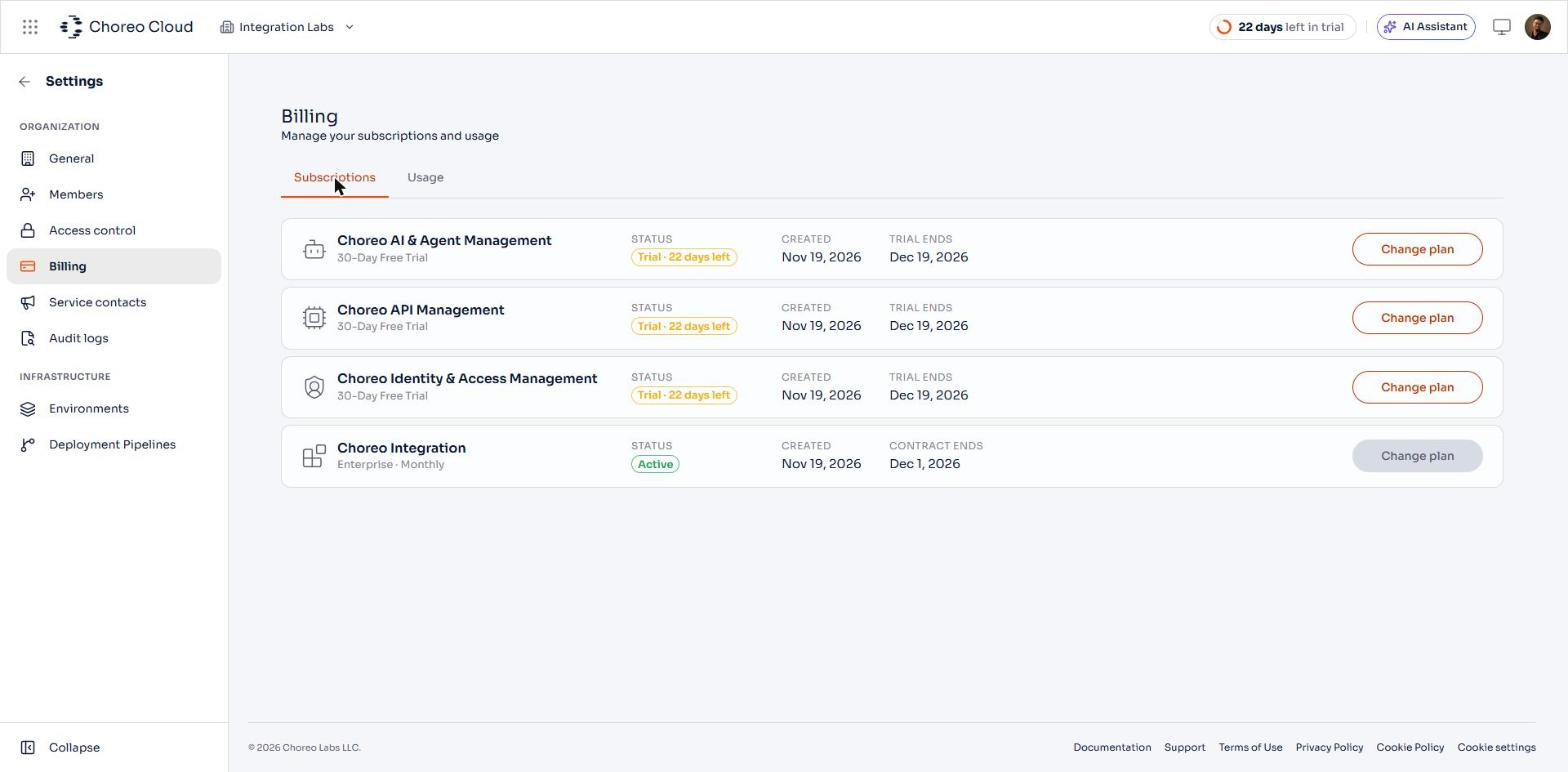
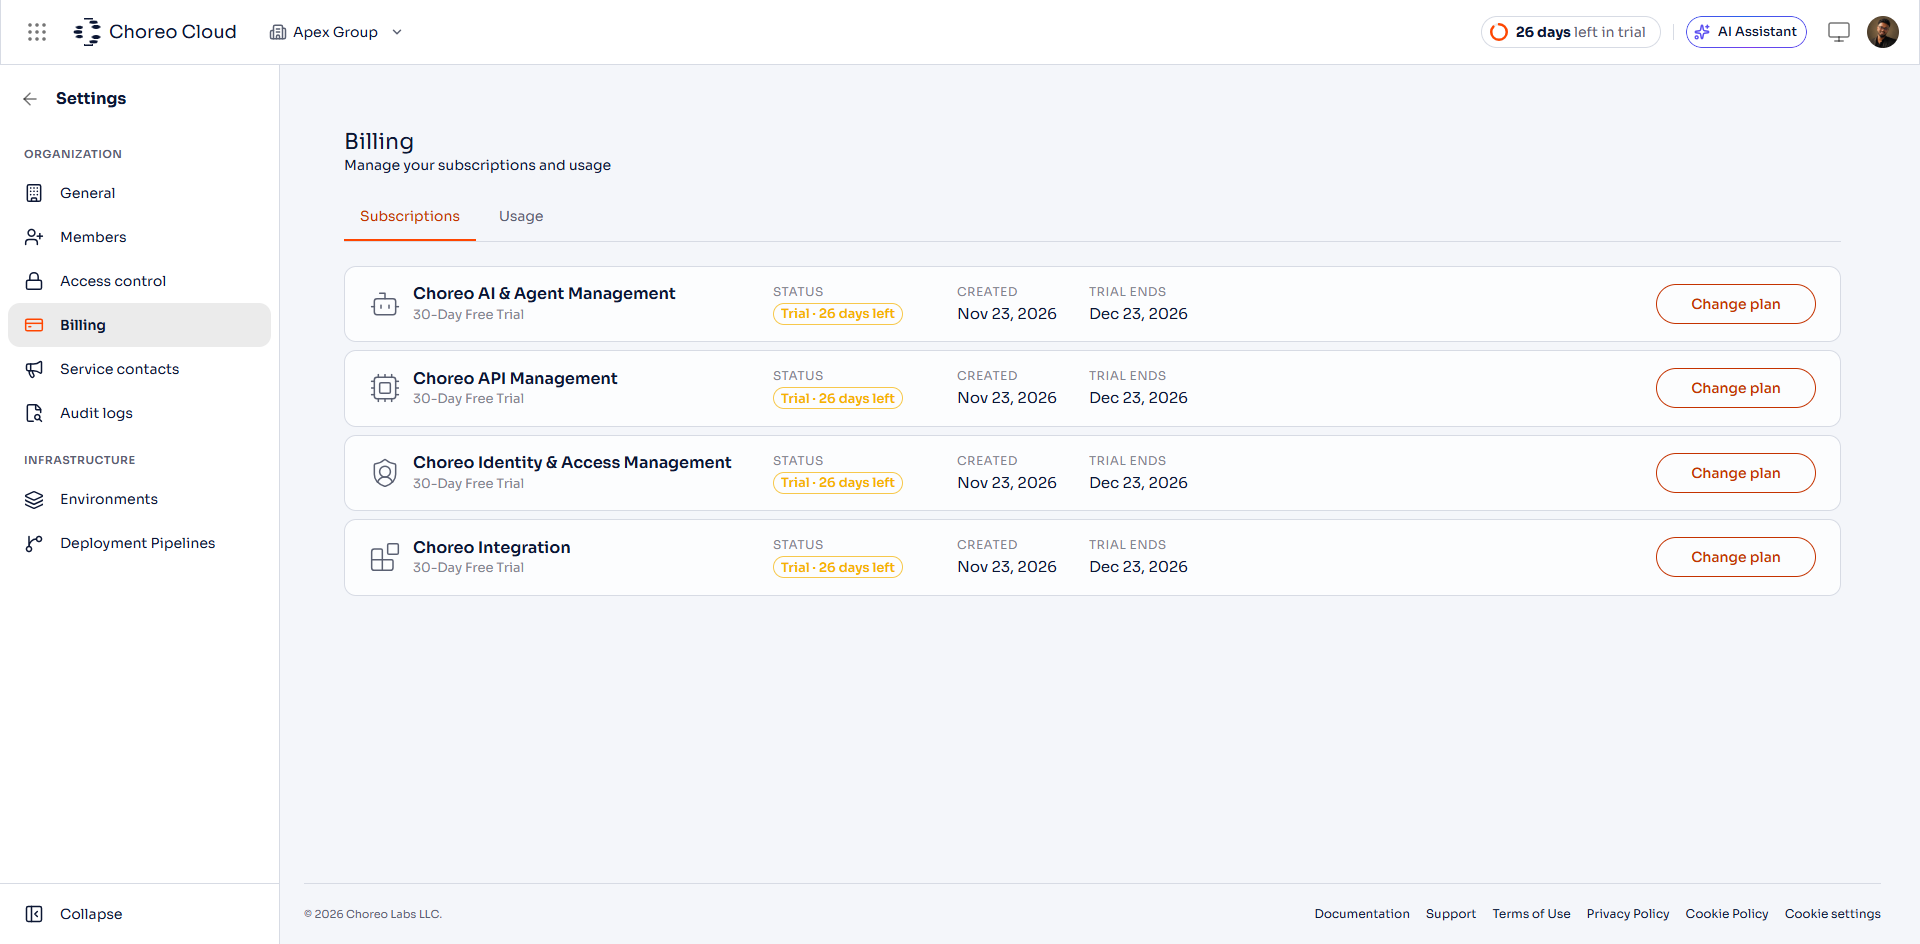
docs(v3): show the real self-service plan-upgrade request flow
Replace the Billing Subscriptions/Usage screenshots with ones from an
org still on a Free Trial for every product, where Choreo Integration's
Change plan button is still enabled (the earlier screenshots were from
an org already on a fixed Enterprise contract, where it's disabled).
This surfaces the real flow: Change plan > choose Enterprise > fill in
contact details > Send request to sales - a Choreo Cloud rep follows up
within 1 business day. Drop the "managed by Choreo Cloud" tooltip
screenshot and text as the primary story in favor of this, keeping a
one-line note that Change plan can still end up disabled once an org is
on a Choreo Cloud-managed plan. Also update the Usage tab screenshot to
one with real Free Trial quotas (Transactions, Automation Core Minutes,
AI Agent Actions, Integrations, AI Agents, Developers) instead of an
all-Unlimited Enterprise org, and flag reconciling those numbers with
the Acceptable Usage Policy as a follow-up.

diff --git a/en/docs/manage/billing/pricing-and-plans.md b/en/docs/manage/billing/pricing-and-plans.md
@@ -26,40 +26,66 @@ Choreo Cloud bills the resources you use as part of your existing subscription. 
 3. In the left navigation menu, click **Billing**, then click the **Usage** tab.
 
 <ThemedImage
-    alt="Billing Usage tab for Choreo Integration showing Transactions, Automation Core Minutes, AI Agent Actions, and shared resource counts"
+    alt="Billing Usage tab for Choreo Integration showing Transactions, Automation Core Minutes, AI Agent Actions, Integrations, AI Agents, Connectors, and shared resource counts with their quotas and percentage used"
     sources={{
         light: useBaseUrl('/img/manage/cloud/billing/billing-usage.png'),
         dark: useBaseUrl('/img/manage/cloud/billing/billing-usage.png'),
     }}
 />
 
-{/* TODO(v3): the Usage tab has a product selector (set to Choreo Integration here) - didn't check what the other Choreo Cloud products (AI & Agent Management, API Management, Identity & Access Management) show under it, since this docs site covers Choreo Integration only. */}
+Each metric shows how much of your plan's quota you've used, and when it resets. A metric with no stated quota, like **Connectors** here, is unlimited on the current plan.
+
+{/* TODO(v3): the Usage tab has a product selector (set to Choreo Integration here) - didn't check what the other Choreo Cloud products (AI & Agent Management, API Management, Identity & Access Management) show under it, since this docs site covers Choreo Integration only. The quotas shown (Transactions 1,000,000, Automation Core Minutes 500, AI Agent Actions 1,000, Integrations 5, AI Agents 5, Developers 5) are from a Free Trial organization - the Acceptable Usage Policy doesn't currently list these as rows (only Integrations is implied, via the FAQ's "up to five free integrations"). Worth reconciling with the AUP in a follow-up pass. */}
 
 ## Upgrade a plan
 
-In **Settings** > **Billing**, the **Subscriptions** tab lists your organization's subscriptions, including Choreo Integration.
+1. Sign in to [Choreo Cloud](https://console.cloud.choreolabs.com).
+2. Open the apps grid at the top left, then under **Manage**, click **Settings**.
+3. In the left navigation menu, click **Billing**. The **Subscriptions** tab lists your organization's subscriptions, including Choreo Integration.
 
-<ThemedImage
-    alt="Billing Subscriptions tab listing Choreo AI & Agent Management, Choreo API Management, Choreo Identity & Access Management, and Choreo Integration, each with a Change plan button"
-    sources={{
-        light: useBaseUrl('/img/manage/cloud/billing/billing-subscriptions.png'),
-        dark: useBaseUrl('/img/manage/cloud/billing/billing-subscriptions.png'),
-    }}
-/>
+    <ThemedImage
+        alt="Billing Subscriptions tab listing Choreo AI & Agent Management, Choreo API Management, Choreo Identity & Access Management, and Choreo Integration, each on a 30-Day Free Trial with a Change plan button"
+        sources={{
+            light: useBaseUrl('/img/manage/cloud/billing/billing-subscriptions.png'),
+            dark: useBaseUrl('/img/manage/cloud/billing/billing-subscriptions.png'),
+        }}
+    />
 
-Choreo Integration's plan is managed by Choreo Cloud: its **Change plan** button is disabled, and hovering it explains why.
+4. Next to Choreo Integration, click **Change plan**. The dialog shows your current plan and the available options.
 
-<ThemedImage
-    alt="Disabled Change plan button for Choreo Integration with a tooltip: This plan is managed by Choreo Cloud. Contact support to make changes."
-    sources={{
-        light: useBaseUrl('/img/manage/cloud/billing/change-plan-managed-tooltip.png'),
-        dark: useBaseUrl('/img/manage/cloud/billing/change-plan-managed-tooltip.png'),
-    }}
-/>
+    <ThemedImage
+        alt="Change plan dialog showing the current 30-Day Free Trial plan and the Extend my trial and Enterprise options, with neither selected yet"
+        sources={{
+            light: useBaseUrl('/img/manage/cloud/billing/change-plan-choose.png'),
+            dark: useBaseUrl('/img/manage/cloud/billing/change-plan-choose.png'),
+        }}
+    />
 
-To upgrade your subscription plan, contact [Choreo Cloud support](https://choreolabs.com/contact/).
+5. Select **Enterprise**, then click **Continue to contact details**.
 
-{/* TODO(v3): the other three subscriptions on this org's Billing page (AI & Agent Management, API Management, Identity & Access Management - separate Choreo Cloud products, out of scope for these Integration docs) DO have a working self-service Change plan dialog, but while on a 30-Day Free Trial it only offers "Extend my trial" (free, request-based, approved within 1 business day) or "Enterprise" (custom annual contract, a Choreo Cloud representative contacts you within 1 business day) - no instantly-selectable "Growth" plan appeared anywhere, despite the Acceptable Usage Policy documenting a 3-tier Free Trial/Growth/Enterprise structure. Didn't check what the dialog looks like from an active Growth or Enterprise plan, or whether Growth is only ever assigned by a sales conversation rather than chosen in this dialog. */}
+    <ThemedImage
+        alt="Change plan dialog with the Enterprise plan selected and a Continue to contact details button"
+        sources={{
+            light: useBaseUrl('/img/manage/cloud/billing/change-plan-enterprise-selected.png'),
+            dark: useBaseUrl('/img/manage/cloud/billing/change-plan-enterprise-selected.png'),
+        }}
+    />
+
+6. Fill in your contact details, then click **Send request to sales**.
+
+    <ThemedImage
+        alt="Contact details step of the Change plan dialog with name, work email, phone, job role, company, and country fields, and a summary of the Enterprise plan being requested"
+        sources={{
+            light: useBaseUrl('/img/manage/cloud/billing/change-plan-contact-details.png'),
+            dark: useBaseUrl('/img/manage/cloud/billing/change-plan-contact-details.png'),
+        }}
+    />
+
+A Choreo Cloud representative reviews your request and contacts you within 1 business day. Your trial continues as usual until it ends. You can also reach out directly to [Choreo Cloud support](https://choreolabs.com/contact/).
+
+Once your organization is on a plan that Choreo Cloud manages directly, **Change plan** may become disabled; contact support to make further changes.
+
+{/* TODO(v3): on the Choose a plan step, a Free Trial subscription only ever offered "Extend my trial" (free, request-based, approved within 1 business day) or "Enterprise" (the annual-contract request flow documented above) - no instantly-selectable "Growth" plan appeared anywhere, despite the Acceptable Usage Policy documenting a 3-tier Free Trial/Growth/Enterprise structure. Didn't check what the dialog looks like from an active Growth or Enterprise plan, or whether Growth is only ever assigned by a sales conversation rather than chosen in this dialog. Also didn't check the other three subscriptions' (AI & Agent Management, API Management, Identity & Access Management) own upgrade flows beyond this same Choose a plan step, since they're separate Choreo Cloud products out of scope for these Integration docs. */}
 
 ## What's next
 
